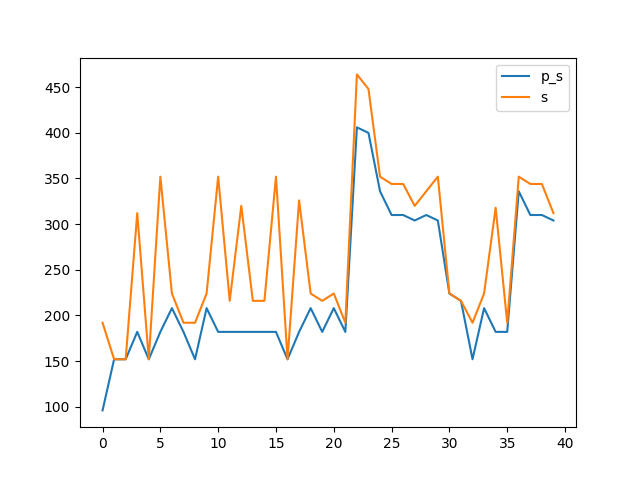
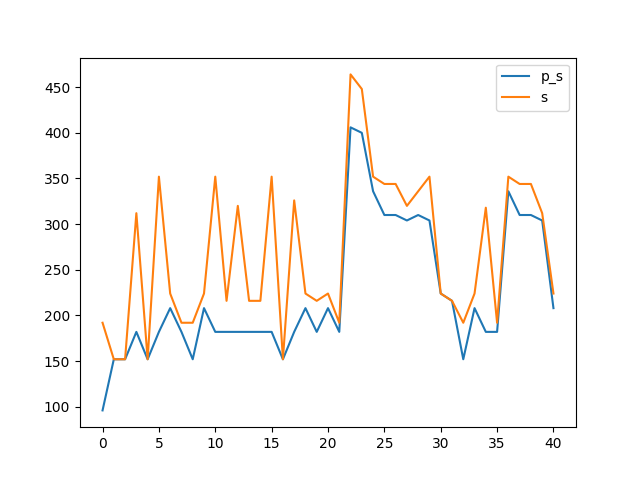
0x0028

diff --git a/benchmark.md b/benchmark.md
@@ -78,16 +78,18 @@ Synthesising 0x0026 pexact:310 r=5 exact:344 r=4
 
 Synthesising 0x0027 pexact:304 r=5 exact:312 r=4
 
+Synthesising 0x0028 pexact:208 r=4 exact:224 r=3
+
 ```mermaid
 xychart-beta
     title "Comparison powertwoexact twoexact"
-    x-axis [0, 1, 2, 3, 4, 5, 6, 7, 8, 9, 10, 11, 12, 13, 14, 15, 16, 17, 18, 19, 20, 21, 22, 23, 24, 25, 26, 27, 28, 29, 30, 31, 32, 33, 34, 35, 36, 37, 38, 39]
+    x-axis [0, 1, 2, 3, 4, 5, 6, 7, 8, 9, 10, 11, 12, 13, 14, 15, 16, 17, 18, 19, 20, 21, 22, 23, 24, 25, 26, 27, 28, 29, 30, 31, 32, 33, 34, 35, 36, 37, 38, 39, 40]
     y-axis "Switching Activity" 0-->464
-    line [96, 152, 152, 182, 152, 182, 208, 182, 152, 208, 182, 182, 182, 182, 182, 182, 152, 182, 208, 182, 208, 182, 406, 400, 336, 310, 310, 304, 310, 304, 224, 216, 152, 208, 182, 182, 336, 310, 310, 304]
-    line [192, 152, 152, 312, 152, 352, 224, 192, 192, 224, 352, 216, 320, 216, 216, 352, 152, 326, 224, 216, 224, 192, 464, 448, 352, 344, 344, 320, 336, 352, 224, 216, 192, 224, 318, 192, 352, 344, 344, 312]
-    line [224.4, 224.4, 224.4, 224.4, 224.4, 224.4, 224.4, 224.4, 224.4, 224.4, 224.4, 224.4, 224.4, 224.4, 224.4, 224.4, 224.4, 224.4, 224.4, 224.4, 224.4, 224.4, 224.4, 224.4, 224.4, 224.4, 224.4, 224.4, 224.4, 224.4, 224.4, 224.4, 224.4, 224.4, 224.4, 224.4, 224.4, 224.4, 224.4, 224.4]
-    line [270.7, 270.7, 270.7, 270.7, 270.7, 270.7, 270.7, 270.7, 270.7, 270.7, 270.7, 270.7, 270.7, 270.7, 270.7, 270.7, 270.7, 270.7, 270.7, 270.7, 270.7, 270.7, 270.7, 270.7, 270.7, 270.7, 270.7, 270.7, 270.7, 270.7, 270.7, 270.7, 270.7, 270.7, 270.7, 270.7, 270.7, 270.7, 270.7, 270.7]
-    bar [80, 60, 60, 80, 60, 80, 80, 80, 60, 80, 80, 80, 80, 80, 80, 80, 60, 80, 80, 80, 80, 80, 120, 120, 100, 100, 100, 100, 100, 100, 60, 60, 60, 80, 80, 80, 100, 100, 100, 100]
-    bar [80, 60, 60, 80, 60, 80, 60, 60, 60, 60, 80, 60, 80, 60, 60, 80, 60, 80, 60, 60, 60, 60, 100, 100, 80, 80, 80, 80, 80, 80, 60, 60, 60, 60, 80, 60, 80, 80, 80, 80]
+    line [96, 152, 152, 182, 152, 182, 208, 182, 152, 208, 182, 182, 182, 182, 182, 182, 152, 182, 208, 182, 208, 182, 406, 400, 336, 310, 310, 304, 310, 304, 224, 216, 152, 208, 182, 182, 336, 310, 310, 304, 208]
+    line [192, 152, 152, 312, 152, 352, 224, 192, 192, 224, 352, 216, 320, 216, 216, 352, 152, 326, 224, 216, 224, 192, 464, 448, 352, 344, 344, 320, 336, 352, 224, 216, 192, 224, 318, 192, 352, 344, 344, 312, 224]
+    line [224.0, 224.0, 224.0, 224.0, 224.0, 224.0, 224.0, 224.0, 224.0, 224.0, 224.0, 224.0, 224.0, 224.0, 224.0, 224.0, 224.0, 224.0, 224.0, 224.0, 224.0, 224.0, 224.0, 224.0, 224.0, 224.0, 224.0, 224.0, 224.0, 224.0, 224.0, 224.0, 224.0, 224.0, 224.0, 224.0, 224.0, 224.0, 224.0, 224.0, 224.0]
+    line [269.5609756097561, 269.5609756097561, 269.5609756097561, 269.5609756097561, 269.5609756097561, 269.5609756097561, 269.5609756097561, 269.5609756097561, 269.5609756097561, 269.5609756097561, 269.5609756097561, 269.5609756097561, 269.5609756097561, 269.5609756097561, 269.5609756097561, 269.5609756097561, 269.5609756097561, 269.5609756097561, 269.5609756097561, 269.5609756097561, 269.5609756097561, 269.5609756097561, 269.5609756097561, 269.5609756097561, 269.5609756097561, 269.5609756097561, 269.5609756097561, 269.5609756097561, 269.5609756097561, 269.5609756097561, 269.5609756097561, 269.5609756097561, 269.5609756097561, 269.5609756097561, 269.5609756097561, 269.5609756097561, 269.5609756097561, 269.5609756097561, 269.5609756097561, 269.5609756097561, 269.5609756097561]
+    bar [80, 60, 60, 80, 60, 80, 80, 80, 60, 80, 80, 80, 80, 80, 80, 80, 60, 80, 80, 80, 80, 80, 120, 120, 100, 100, 100, 100, 100, 100, 60, 60, 60, 80, 80, 80, 100, 100, 100, 100, 80]
+    bar [80, 60, 60, 80, 60, 80, 60, 60, 60, 60, 80, 60, 80, 60, 60, 80, 60, 80, 60, 60, 60, 60, 100, 100, 80, 80, 80, 80, 80, 80, 60, 60, 60, 60, 80, 60, 80, 80, 80, 80, 60]
 ```
 
